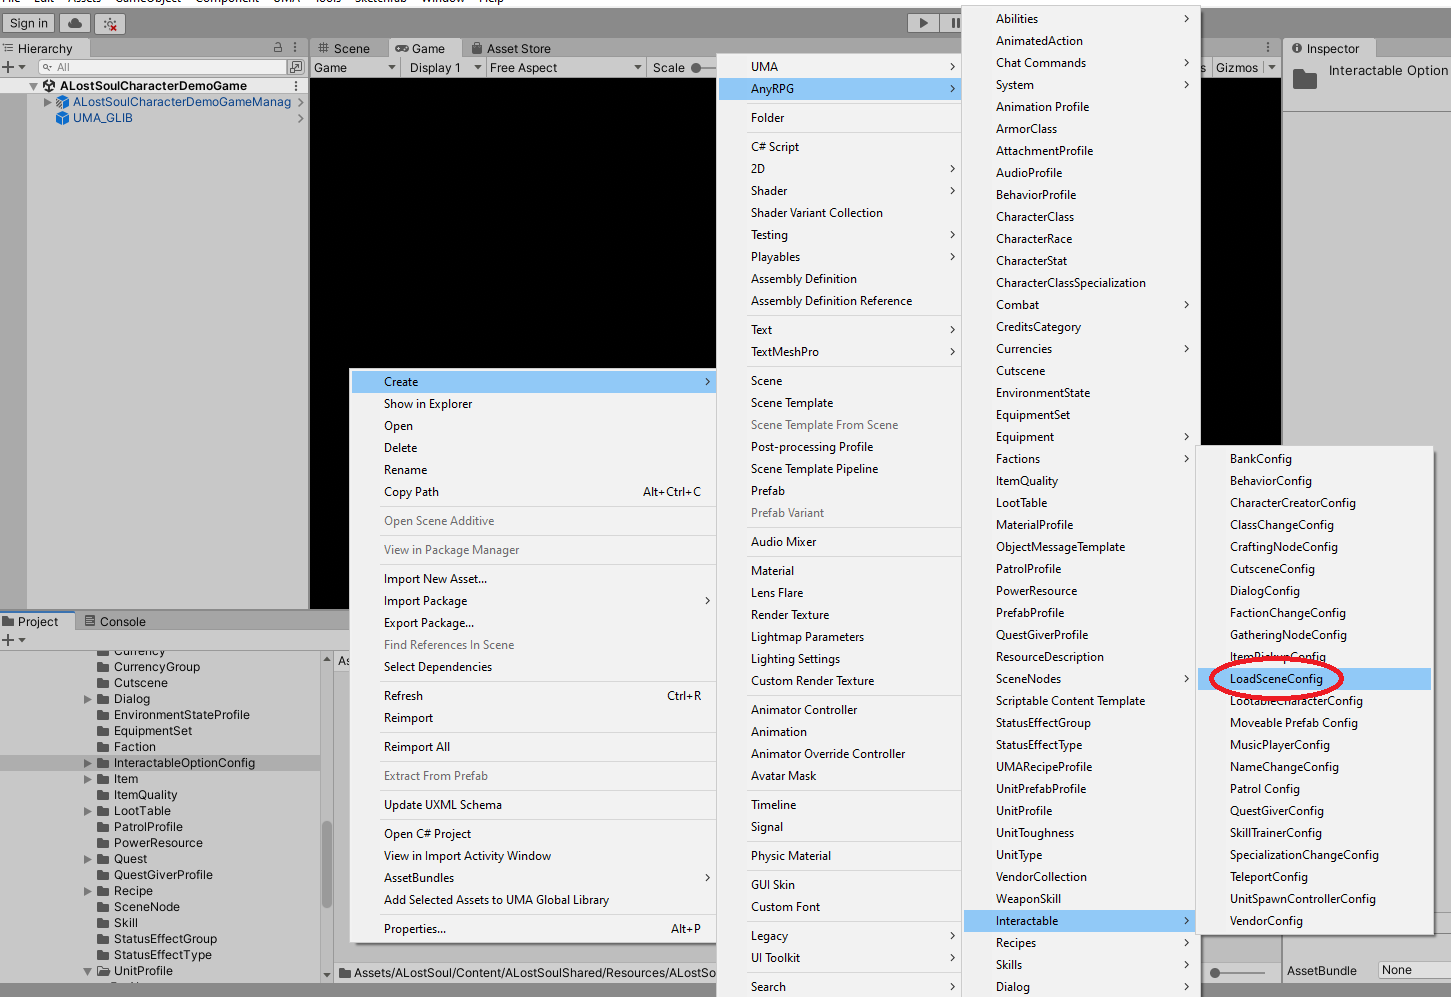
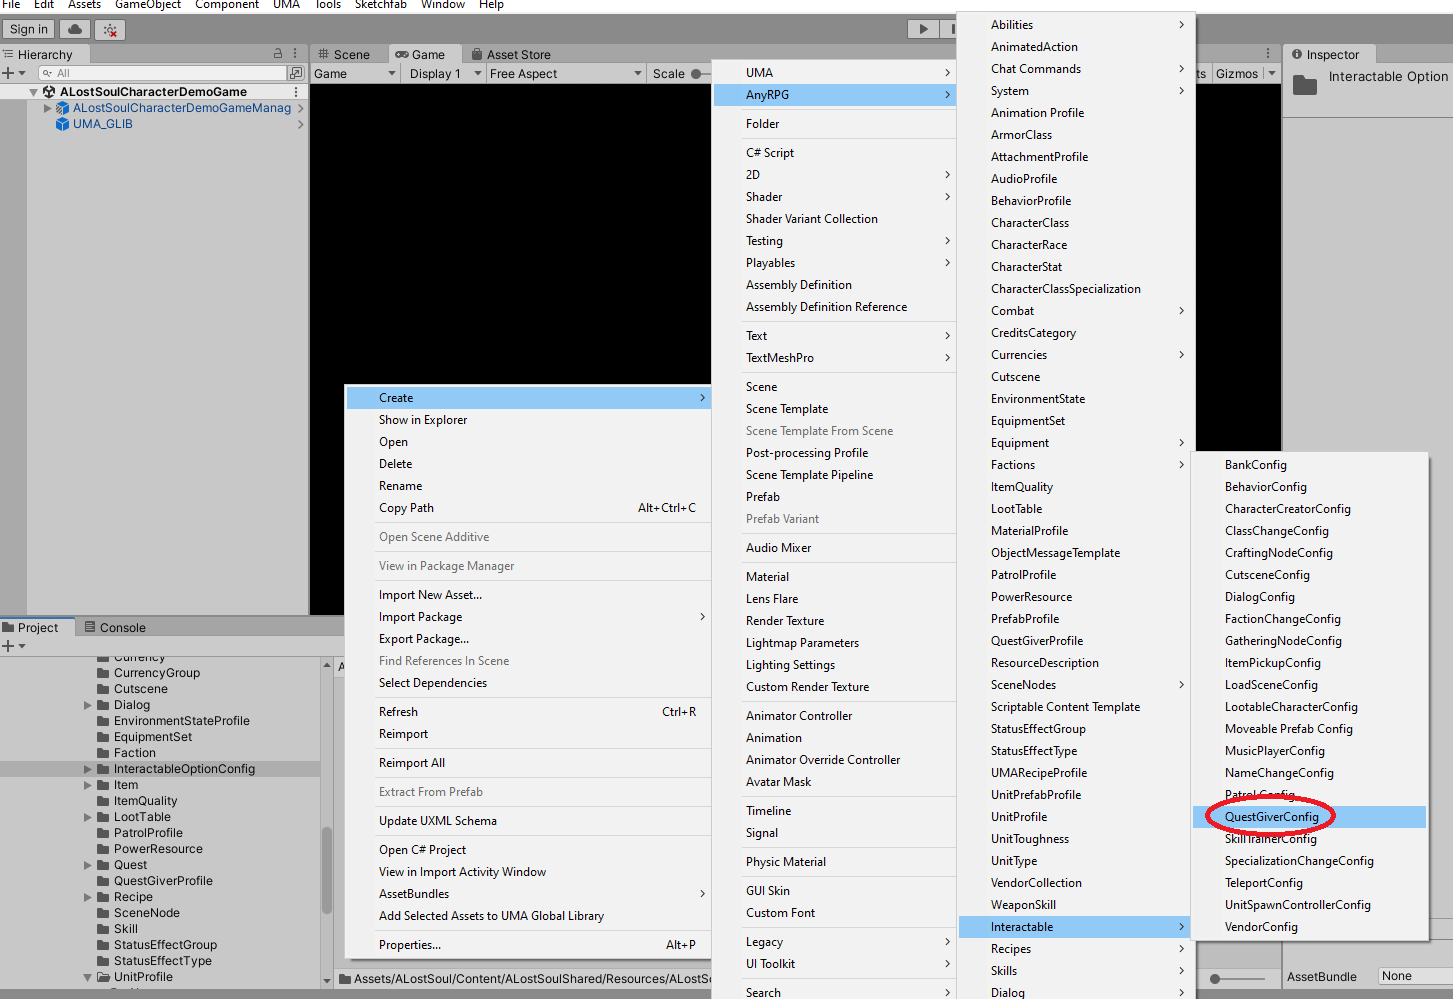
GitBook: [#82] add quest giver documentation

Changed region(s): [[0.0, 0.0, 1.0, 1.0]]

diff --git a/scriptable-objects/interactable-option-configurations/quest-giver-config.md b/scriptable-objects/interactable-option-configurations/quest-giver-config.md
@@ -1,5 +1,24 @@
+---
+description: >-
+  A quest giver config creates a quest giver interactable option, allowing the
+  player to start or turn in quests when they interact with the character.
+---
+
 # Quest Giver Config
 
-{% hint style="info" %}
-Coming Soon
-{% endhint %}
+## Creation
+
+To create a quest giver config, find (or create) the _GameName/Resources/GameName/InteractableOptionConfig_ folder in the project tab and right click.  Choose _Create > AnyRPG > Interactable > QuestGiverConfig_.
+
+![](<../../.gitbook/assets/image (5).png>)
+
+## Properties
+
+| Name                      | Description                                                                                                                                                                  |
+| ------------------------- | ---------------------------------------------------------------------------------------------------------------------------------------------------------------------------- |
+| Quests                    | A list of [Quests](../quest.md) that can be started or turned in.                                                                                                            |
+| Quest Giver Profile Names | A list of names of [Quest Giver Profiles](../quest-giver-profile.md), which contain shared lists of [Quests](../quest.md) that can be re-used across different quest givers. |
+
+## Next Steps
+
+* Add a quest giver config to a [Unit Profile](../unit-profile.md) to allow starting and turning in quests by interacting with the character.

diff --git a/scriptable-objects/items/equipment.md b/scriptable-objects/items/equipment.md
@@ -8,7 +8,7 @@ description: Equipment is any type of item that can be equipped on a character.
 
 To create equipment, find (or create) the _GameName/Resources/GameName/Item/Equipment_ folder (or any subfolder) in the project tab and right click.  Choose _Create > AnyRPG > Inventory > Equipment > Equipment_.
 
-![](<../../.gitbook/assets/image (5) (1).png>)
+![](<../../.gitbook/assets/image (5) (1) (1).png>)
 
 ## Properties
 

diff --git a/scriptable-objects/interactable-option-configurations/patrol-config.md b/scriptable-objects/interactable-option-configurations/patrol-config.md
@@ -6,13 +6,11 @@ description: >-
 
 # Patrol Config
 
-
-
 ## Creation
 
 To create a patrol config, find (or create) the _GameName/Resources/GameName/InteractableOptionConfig_ folder in the project tab and right click.  Choose _Create > AnyRPG > Interactable > PatrolConfig_.
 
-![](<../../.gitbook/assets/image (6).png>)
+![](../../.gitbook/assets/image.png)
 
 ## Properties
 

diff --git a/scriptable-objects/interactable-option-configurations/crafting-node-config.md b/scriptable-objects/interactable-option-configurations/crafting-node-config.md
@@ -10,7 +10,7 @@ description: >-
 
 To create a crafting node config, find (or create) the _GameName/Resources/GameName/InteractableOptionConfig_ folder in the project tab and right click.  Choose _Create > AnyRPG > Interactable > CraftingNodeConfig_.
 
-![](<../../.gitbook/assets/image (3).png>)
+![](<../../.gitbook/assets/image (3) (4).png>)
 
 ## Properties
 

diff --git a/scriptable-objects/interactable-option-configurations/load-scene-config.md b/scriptable-objects/interactable-option-configurations/load-scene-config.md
@@ -10,7 +10,7 @@ description: >-
 
 To create a load scene config, find (or create) the _GameName/Resources/GameName/InteractableOptionConfig_ folder in the project tab and right click.  Choose _Create > AnyRPG > Interactable > LoadSceneConfig_.
 
-![](<../../.gitbook/assets/image (5).png>)
+![](<../../.gitbook/assets/image (5) (1).png>)
 
 ## Properties
 

diff --git a/scriptable-objects/interactable-option-configurations/name-change-config.md b/scriptable-objects/interactable-option-configurations/name-change-config.md
@@ -10,7 +10,7 @@ description: >-
 
 To create a name change config, find (or create) the _GameName/Resources/GameName/InteractableOptionConfig_ folder in the project tab and right click.  Choose _Create > AnyRPG > Interactable > NameChangeConfig_.
 
-![](../../.gitbook/assets/image.png)
+![](<../../.gitbook/assets/image (3).png>)
 
 ## Properties
 

diff --git a/scriptable-objects/interactable-option-configurations/bank-config.md b/scriptable-objects/interactable-option-configurations/bank-config.md
@@ -10,7 +10,7 @@ description: >-
 
 To create a bank config, find (or create) the _GameName/Resources/GameName/InteractableOptionConfig_ folder in the project tab and right click.  Choose _Create > AnyRPG > Interactable > BankConfig_.
 
-![](<../../.gitbook/assets/image (6) (1).png>)
+![](<../../.gitbook/assets/image (6).png>)
 
 ## Properties
 

diff --git a/scriptable-objects/power-resource.md b/scriptable-objects/power-resource.md
@@ -11,7 +11,7 @@ description: >-
 
 To create a power resource, find (or create) the _GameName/Resources/GameName/PowerResource_ folder in the project tab and right click.  Choose _Create > AnyRPG > PowerResource_.
 
-![](<../.gitbook/assets/image (1) (1).png>)
+![](<../.gitbook/assets/image (1) (1) (2).png>)
 
 ## Properties
 

diff --git a/wizards/new-game-wizard.md b/wizards/new-game-wizard.md
@@ -51,7 +51,7 @@ After choosing the appropriate options for your game, click Create.
 
 A folder structure similar to what is shown in the picture below will have been created.
 
-![](<../.gitbook/assets/image (6) (1) (1).png>)
+![](<../.gitbook/assets/image (6) (1).png>)
 
 ### Game Manager Prefabs
 
